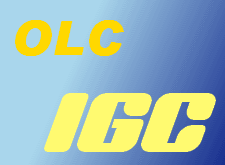
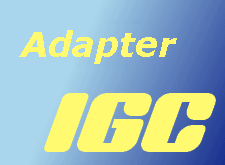
wording update

Changed region(s): [[0.0622, 0.1212, 0.8089, 0.3939]]

diff --git a/DataExplorer/src/help/de/HelpInfo_37.html b/DataExplorer/src/help/de/HelpInfo_37.html
@@ -90,7 +90,7 @@
 <H2><A NAME="igc_format_export"></A>IGC-Format</H2>
 <P>Wenn der gerade angezeigte Datensatz Global Positioning System (GPS)-Daten enth&auml;lt, ist es möglich daraus eine 
 International Gliding Commission (IGC)-Datei zu exportieren.
-So eine Datei ist Voraussetzung zur Teilnahme an dem On-Line-Contest (OLC)-Streckenfliegen für Flugmodelle.
+So eine Datei ist Voraussetzung zur Teilnahme an dem Dreiecksfliegen für Segelflugmodelle.
 Der Globusknopf in der Toolbar ver&auml;ndert sein Aussehen und signalisiert damit, ob diese Funktion m&ouml;glich ist.
 Sehen kann man es aber auch beim &Ouml;ffnen des <A HREF="HelpInfo_3.html">Datei Exportmen&uuml;s</A>.</P>
 <P ALIGN=CENTER><IMG SRC="images/Menuebar_File_Export_IGC.png" NAME="Menuebar_Datei_Export_IGC" ALIGN=MIDDLE></P>
@@ -104,7 +104,7 @@ Starth&ouml;he und Startzeit sind in jedem Fall zu &uuml;berpr&uuml;fen.
 <PRE>
 IGC_PILOT_NAME			: Piloten-Name
 IGC_CO_PILOT_NAME		: Zweitpiloten-Name, falls vorhanden
-IGC_GLIDER_CLASS		: <A HREF="https://static.onlinecontest.org/files/ModelGliding/110922/RC-OLC_Classes_Index_Trias_Speed_110919.jpg">Spannweitenbereich</A>
+IGC_GLIDER_CLASS		: Spannweitenbereich
 IGC_GLIDER_ID			: Flugmodell-Name oder -Bezeichnung
 IGC_GPS_FIRMWARE_VERSION	: 1.03
 IGC_GPS_HARDWARE_VERSION	: 1

diff --git a/IGCAdapter/src/help/de/HelpInfo.html b/IGCAdapter/src/help/de/HelpInfo.html
@@ -22,18 +22,18 @@
 <HTML>
 <HEAD>
 	<META HTTP-EQUIV="CONTENT-TYPE" CONTENT="text/html; charset=utf-8">
-	<TITLE>IGCAdapter - zur Analyse von OLC IGC-Dateien</TITLE>
+	<TITLE>IGCAdapter - zur Analyse von IGC-Dateien</TITLE>
 	<META NAME="AUTHOR" CONTENT="Winfried Br&uuml;gmann">
 	<META NAME="CREATED" CONTENT="0;0">
 	<META NAME="CHANGEDBY" CONTENT="Winfried Br&uuml;gmann">
 </HEAD>
 <BODY LANG="de-DE" DIR="LTR">
 <DIV TYPE=HEADER>
-	<H2><FONT FACE="Arial"><FONT SIZE=4><I>IGCAdapter (zur Analyse von OLC IGC-Dateien)</I></FONT></FONT></H2>
+	<H2><FONT FACE="Arial"><FONT SIZE=4><I>IGCAdapter (zur Analyse von IGC-Dateien)</I></FONT></FONT></H2>
 </DIV>
 <P ALIGN=CENTER><IMG SRC="../../resource/IGCAdapter.png" NAME="IGCAdapter" ALT="IGCAdapter">
 <P>F&uuml;r den IGCAdapter gibt es keinen Ger&auml;tedialog. 
-Er dient ausschlie&szlig;lich zum Einlesen von IGC-Dateien zur eigenen Beurteilung vor einer m&ouml;glichen Abgabe bei der Teilnahme am Online Contest (OLC).
+Er dient ausschlie&szlig;lich zum Einlesen von IGC-Dateien zur eigenen Beurteilung vor einer m&ouml;glichen Abgabe bei der Teilnahme am Wettbewerb.
 </P>
 </BODY>
 </HTML>

diff --git a/DataExplorer/src/help/en/HelpInfo_37.html b/DataExplorer/src/help/en/HelpInfo_37.html
@@ -91,7 +91,7 @@
 <DIV ID="Content" DIR="LTR">
 <H2><A NAME="igc_format_export"></A>IGC Format</H2>
 <P>If the current displayed record set contains GPS (global position system) data, it is possible to export a International Gliding Commission (IGC) file.
-An IGC file is prerequisite to join the ModelGliding-OLC On-Line-Contest.
+An IGC file is prerequisite to join the ModelGliding-Triangle-Contest.
 The globe icon will change its visibility to signal IGC export capability.
 You can also find it while opening the <A HREF="HelpInfo_3.html">file export menu</A>.
 </P>
@@ -106,7 +106,7 @@ Anyhow this dialog must be filled out as complete as possible. The start altitud
 <PRE>
 IGC_PILOT_NAME			: Pilot name
 IGC_CO_PILOT_NAME		: Co-pilot name, if applicable
-IGC_GLIDER_CLASS		: <A HREF="https://static.onlinecontest.org/files/ModelGliding/110922/RC-OLC_Classes_Index_Trias_Speed_110919.jpg">Wing span range</A>
+IGC_GLIDER_CLASS		: Wing span range
 IGC_GLIDER_ID			: Glider-name or -identifier
 IGC_GPS_FIRMWARE_VERSION	: 1.03
 IGC_GPS_HARDWARE_VERSION	: 1

diff --git a/IGCAdapter/src/help/en/HelpInfo.html b/IGCAdapter/src/help/en/HelpInfo.html
@@ -22,18 +22,18 @@
 <HTML>
 <HEAD>
 	<META HTTP-EQUIV="CONTENT-TYPE" CONTENT="text/html; charset=utf-8">
-	<TITLE>IGCAdapter - analyze of OLC IGC files</TITLE>
+	<TITLE>IGCAdapter - analyze of IGC files</TITLE>
 	<META NAME="AUTHOR" CONTENT="Winfried Br&uuml;gmann">
 	<META NAME="CREATED" CONTENT="0;0">
 	<META NAME="CHANGEDBY" CONTENT="Winfried Br&uuml;gmann">
 </HEAD>
 <BODY LANG="de-DE" DIR="LTR">
 <DIV TYPE=HEADER>
-	<H2><FONT FACE="Arial"><FONT SIZE=4><I>IGCAdapter - analyze of OLC IGC files</I></FONT></FONT></H2>
+	<H2><FONT FACE="Arial"><FONT SIZE=4><I>IGCAdapter - analyze of IGC files</I></FONT></FONT></H2>
 </DIV>
 <P ALIGN=CENTER><IMG SRC="../../resource/IGCAdapter.png" NAME="IGCAdapter" ALT="IGCAdapter">
 <P>There is no IGCAdapter device dialog since there is no configuration required. 
-It targets only the capability to analyze of IGC files prior to upload it while joining the online contest (OLC).
+It targets only the capability to analyze of IGC files prior to upload it while joining a contest.
 </P>
 </BODY>
 </HTML>

diff --git a/OnLineCommander/src/gde/device/onlinecommander/OnLineCommander.java b/OnLineCommander/src/gde/device/onlinecommander/OnLineCommander.java
@@ -16,7 +16,7 @@
     
     Copyright (c) 2020 Winfried Bruegmann
 ****************************************************************************************/
-package gde.device.olc;
+package gde.device.onlinecommander;
 
 import java.io.FileNotFoundException;
 import java.util.HashMap;
@@ -64,7 +64,7 @@ public class OnLineCommander extends DeviceConfiguration implements IDevice {
 	public OnLineCommander(String deviceProperties) throws FileNotFoundException, JAXBException {
 		super(deviceProperties);
 		// initializing the resource bundle for this device
-		Messages.setDeviceResourceBundle("gde.device.olc.messages", Settings.getInstance().getLocale(), this.getClass().getClassLoader()); //$NON-NLS-1$
+		Messages.setDeviceResourceBundle("gde.device.onlinecommander.messages", Settings.getInstance().getLocale(), this.getClass().getClassLoader()); //$NON-NLS-1$
 
 		this.application = DataExplorer.getInstance();
 		this.channels = Channels.getInstance();
@@ -82,7 +82,7 @@ public class OnLineCommander extends DeviceConfiguration implements IDevice {
 	public OnLineCommander(DeviceConfiguration deviceConfig) {
 		super(deviceConfig);
 		// initializing the resource bundle for this device
-		Messages.setDeviceResourceBundle("gde.device.olc.messages", Settings.getInstance().getLocale(), this.getClass().getClassLoader()); //$NON-NLS-1$
+		Messages.setDeviceResourceBundle("gde.device.onlinecommander.messages", Settings.getInstance().getLocale(), this.getClass().getClassLoader()); //$NON-NLS-1$
 
 		this.application = DataExplorer.getInstance();
 		this.channels = Channels.getInstance();
@@ -97,8 +97,8 @@ public class OnLineCommander extends DeviceConfiguration implements IDevice {
 	 * @return the tool tip text for the import menu bar button
 	 */
 	public static String getImportToolTip() {
-		DeviceConfiguration olcConfiguration = Analyzer.getInstance().getDeviceConfigurations().get("OnLineCommander");
-		String fileExtentions = olcConfiguration != null ? olcConfiguration.getDataBlockPreferredFileExtention() : GDE.STRING_QUESTION_MARK;
+		DeviceConfiguration onlinecommanderConfiguration = Analyzer.getInstance().getDeviceConfigurations().get("OnLineCommander");
+		String fileExtentions = onlinecommanderConfiguration != null ? onlinecommanderConfiguration.getDataBlockPreferredFileExtention() : GDE.STRING_QUESTION_MARK;
 		return Messages.getString(MessageIds.GDE_MSGT2754, new Object[] { fileExtentions });
 	}
 

diff --git a/OnLineCommander/src/gde/device/onlinecommander/MessageIds.java b/OnLineCommander/src/gde/device/onlinecommander/MessageIds.java
@@ -16,7 +16,7 @@
 
 Copyright (c) 2008,2009,2010,2011,2012,2013,2014,2015,2016,2017,2018,2019,2020 Winfried Bruegmann 
 ****************************************************************************************/
-package gde.device.olc;
+package gde.device.onlinecommander;
 
 /** 
  * @author Winfried Brügmann 
